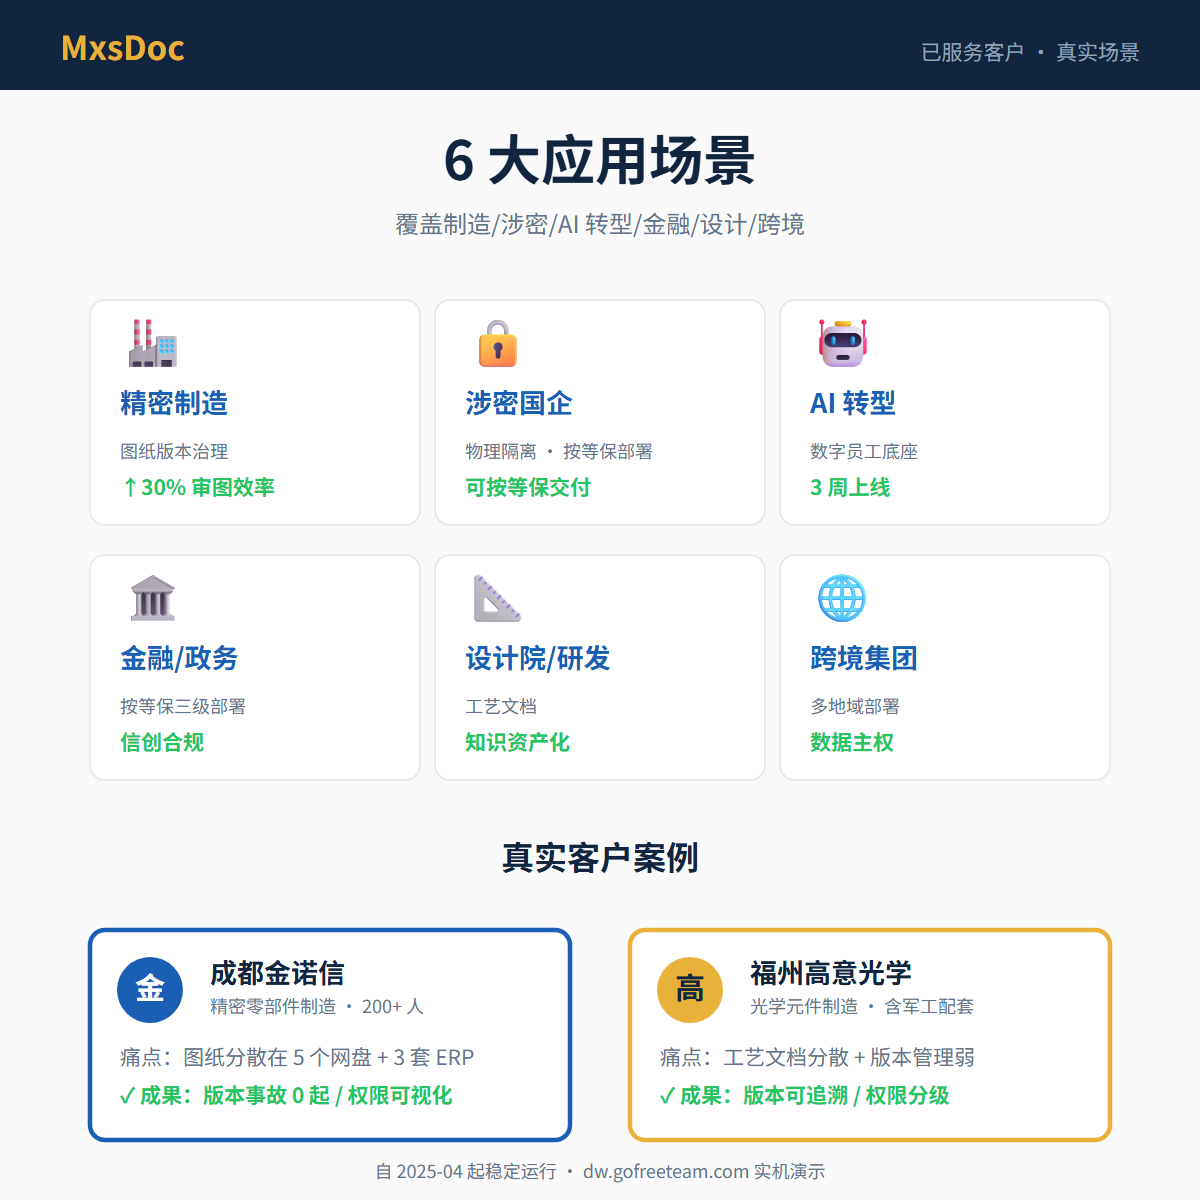
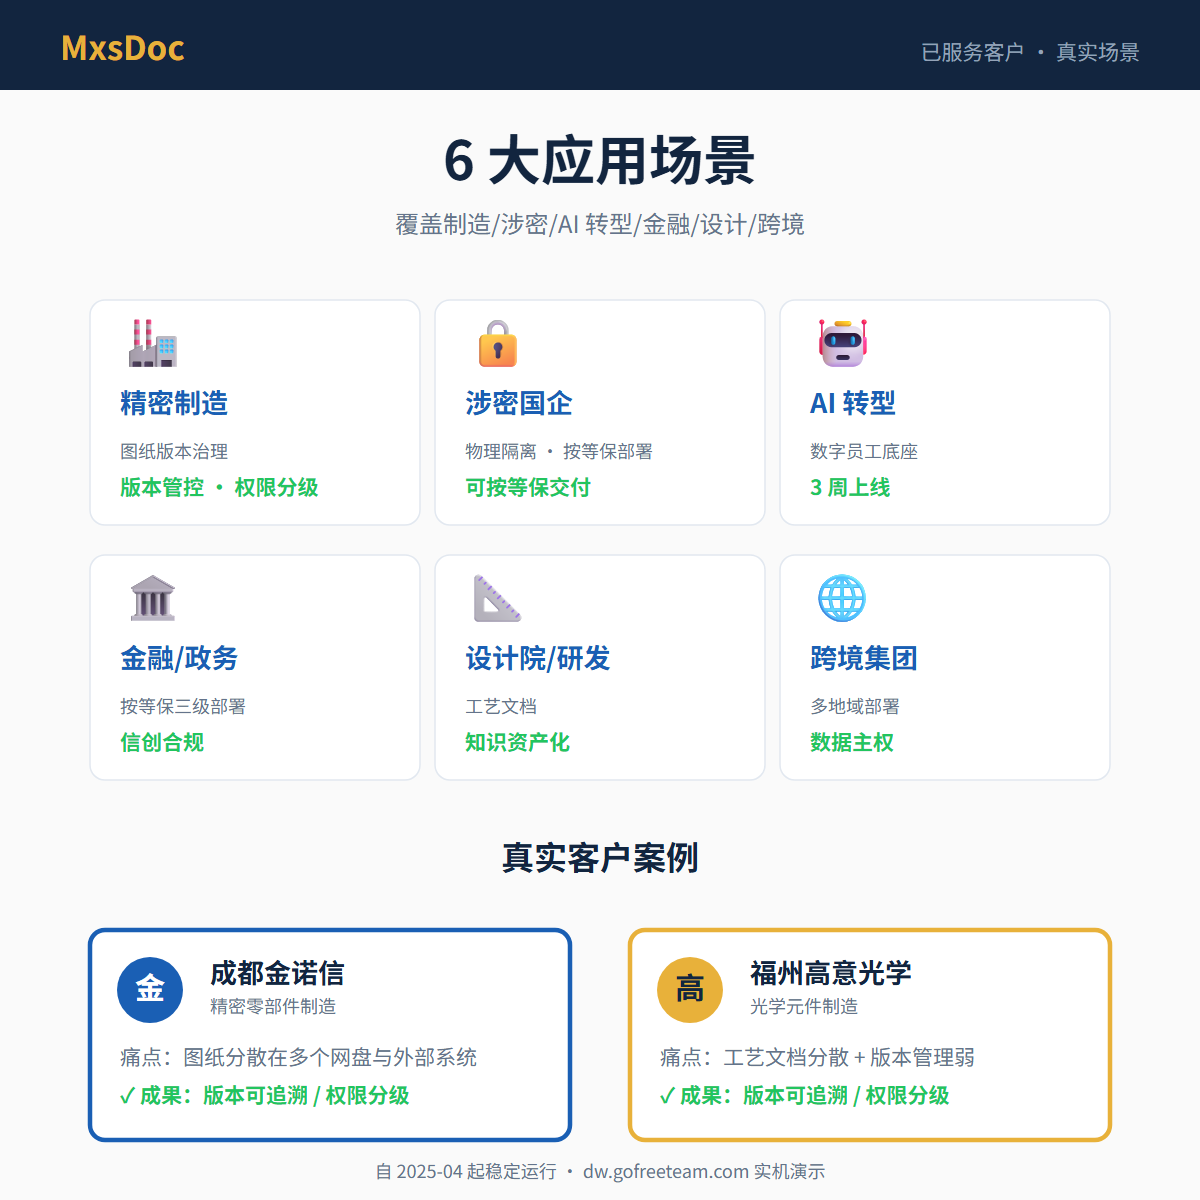
fix: 客户事实与数字口径整改——按盖章证明原文与管线红线清除无出处数字与引用
- 基准：两份盖章使用证明 PDF 的文字层原文 + 内容管线 guardrail（prompts/writer.md「不得新增客户名、不得新增案例数字」）
- appliance.html 客户卡片、customers/index.html、主图 SVG：客户归因数字与敏感表述（网盘/ERP 数量、版本事故数、涉密资质表述、GMP / ISO 合规类表述）改为盖章证明原文表述，或标注「客户反馈」「行业通用路径，非客户事实陈述」
- 苏州客户案例页：盖章原件「使用场景」「部署模式」两栏未勾选，相应条目从「原件勾选项」与逐字引用中剔除，meta / og / JSON-LD reviewBody 同步；成都案例页证据措辞与原件一致
- 四篇博客与首页：删除无法给出可核查标题与链接的第三方引用及配套百分比，改为我方工程判断；涉密/等保表述统一为「支撑材料」口径
- 主图 SVG 变更后重出 800/1200 PNG，全 10 张 PNG 与 SVG 源逐像素一致
- 配套产出：F:\MxsDoc-Content\business\等保三级与密评对标自查表.md（内部售前材料，27 项 class 级证据本轮复核）；同目录 prompts/writer.md 与 scripts/daily_content.py 增补「引用与数字红线」防止复发

Changed region(s): [[0.185, 0.8325, 0.4008, 0.925], [0.0925, 0.4008, 0.2775, 0.4317], [0.74, 0.8325, 0.8017, 0.8633]]

diff --git a/customers/suzhou-lantian-ranqi-redian.html b/customers/suzhou-lantian-ranqi-redian.html
@@ -4,7 +4,7 @@
   <meta charset="UTF-8">
   <meta name="viewport" content="width=device-width, initial-scale=1.0">
   <title>客户案例：苏州工业园区蓝天燃气热电 — MxsDoc 工程文档集中管理</title>
-  <meta name="description" content="苏州工业园区蓝天燃气热电（工业园区燃气热电企业）自 2026 年 3 月起使用 MxsDoc 文件管理系统：系统运行稳定，支持文件版本控制、集中权限管理、拖拽操作、电脑手机自适应访问，使用效果良好。盖章使用证明原件可点击查看。">
+  <meta name="description" content="苏州工业园区蓝天燃气热电（工业园区燃气热电企业）自 2026 年 3 月起使用 MxsDoc 文件管理系统：系统运行稳定，支持文件版本控制、集中权限管理、拖拽操作、电脑手机自适应访问，使用效果良好。盖章使用证明原件（2026-09-29）可点击查看。">
   <meta name="keywords" content="苏州工业园区蓝天燃气热电,MxsDoc 客户案例,工业园区文档管理,燃气热电企业文件管理">
   <link rel="canonical" href="https://agent.gofreeteam.com/customers/suzhou-lantian-ranqi-redian.html">
   <meta property="og:title" content="客户案例：苏州工业园区蓝天燃气热电 — MxsDoc 工程文档集中管理">
@@ -114,8 +114,8 @@
     <div class="meta-card">
       <div class="meta-grid">
         <div class="meta-item"><div class="k">企业类型</div><div class="v">工业园区燃气热电</div></div>
-        <div class="meta-item"><div class="k">使用场景</div><div class="v">企业内部文档集中存储管理（原件勾选项）</div></div>
-        <div class="meta-item"><div class="k">部署方式</div><div class="v">本地化部署</div></div>
+        <div class="meta-item"><div class="k">使用场景</div><div class="v">企业内部文档集中存储管理（据项目记录；盖章原件该栏未勾选）</div></div>
+        <div class="meta-item"><div class="k">部署方式</div><div class="v">本地化部署（据项目记录；盖章原件该栏未勾选）</div></div>
         <div class="meta-item"><div class="k">开始使用</div><div class="v">2026 年 3 月</div></div>
         <div class="meta-item"><div class="k">行业特征</div><div class="v">能源安全合规 · 跨部门协同 · 文档密集</div></div>
       </div>
@@ -124,9 +124,11 @@
     <h2 style="margin-top:3rem;">使用证明（可见证据）<small>逐条摘自客户盖章使用证明原件，下方可点击查看原件核对</small></h2>
     <div class="evidence">
       <div class="ev-card">
-        <h3>使用情况（原件勾选项）</h3>
+        <h3>使用情况（原件勾选栏未勾选）</h3>
         <ul>
           <li>盖章原件的「使用场景」栏与「部署模式」栏均未勾选，本页不就具体场景与部署模式作原件级事实陈述</li>
+          <li>使用起始时间：2026 年 3 月</li>
+          <li>证明单位：苏州工业园区蓝天燃气热电有限公司（盖章日期 2026-09-29）</li>
         </ul>
       </div>
       <div class="ev-card">
@@ -142,8 +144,8 @@
     </div>
 
     <div class="quote">
-      <p>"我单位自 2026 年 3 月开始使用 MxsDoc 文件管理系统，系统运行稳定，支持文件版本控制、集中权限管理、拖拽操作、电脑手机自适应访问，满足我单位内部文档存储、查阅、协同管理的业务需求，使用效果良好。"</p>
-      <small>—— 苏州工业园区蓝天燃气热电有限公司 · 客户使用证明（盖章原件，2026-09-29）</small>
+      <p>"我单位自 2026 年 3 月开始使用 MxsDoc 文件管理系统……系统运行稳定，支持文件版本控制、集中权限管理、拖拽操作、电脑手机自适应访问，满足我单位内部文档存储、查阅、协同管理的业务需求，使用效果良好。"</p>
+      <small>—— 苏州工业园区蓝天燃气热电有限公司 · 客户使用证明（盖章原件，2026-09-29；原件「使用场景」「部署模式」两栏未勾选，此处仅引述原件已填写的文字）</small>
     </div>
 
     <p style="margin-top: 1.6rem;">
@@ -204,7 +206,7 @@
       </div>
       <div class="ev-card">
         <h3>数据主权红线</h3>
-        <p style="font-size:.95rem;color:#475569;">关键基础设施数据必须留内网。→ 本地化部署 + 数据出厂区零通道，与关基设施保护「数据不出厂区」的要求方向一致。</p>
+        <p style="font-size:.95rem;color:#475569;">关键基础设施数据必须留内网。→ 本地化部署 + 数据出厂区零通道，与关基设施保护「数据不出厂区」的要求方向一致（合规结论以客户侧定级备案与测评为准）。</p>
       </div>
       <div class="ev-card">
         <h3>工艺变更四向关联弱</h3>

diff --git a/blog/enterprise-ai-knowledge-base-selection-guide.html b/blog/enterprise-ai-knowledge-base-selection-guide.html
@@ -45,7 +45,7 @@
       {
         "@type": "Question",
         "name": "MxsDoc 能本地化部署吗？",
-        "acceptedAnswer": { "@type": "Answer", "text": "本地化部署是 MxsDoc 的默认形态（数据不出内网），属硬性要求，不是可选项。涉密/等保/保密场景要求权限可审计、操作可留痕。" }
+        "acceptedAnswer": { "@type": "Answer", "text": "本地化部署是 MxsDoc 的默认形态（数据不出内网），属硬性要求，不是可选项。涉密/等保/保密场景要求权限可审计、操作可留痕，本产品提供文档级权限与操作审计日志作为支撑材料。" }
       },
       {
         "@type": "Question",
@@ -469,7 +469,7 @@
     </div>
     <div class="faq-item">
       <h4>MxsDoc 能本地化部署吗？</h4>
-      <p>本地化部署是 MxsDoc 的默认形态（数据不出内网），属硬性要求，不是可选项。涉密/等保/保密场景要求权限可审计、操作可留痕。</p>
+      <p>本地化部署是 MxsDoc 的默认形态（数据不出内网），属硬性要求，不是可选项。涉密/等保/保密场景要求权限可审计、操作可留痕，本产品提供文档级权限与操作审计日志作为支撑材料。</p>
     </div>
     <div class="faq-item">
       <h4>MxsDoc 适合什么样的企业？</h4>

diff --git a/customers/chengdu-jinnuoxin.html b/customers/chengdu-jinnuoxin.html
@@ -125,7 +125,7 @@
         <h3>使用情况（原件勾选项）</h3>
         <ul>
           <li>企业内部文档集中存储管理</li>
-          <li>版本管理</li>
+          <li>版本管控</li>
           <li>权限分级管理</li>
         </ul>
       </div>
@@ -142,7 +142,7 @@
     </div>
 
     <div class="quote">
-      <p>"我单位自 2025 年 4 月开始使用 MxsDoc 文件管理系统，使用场景：企业内部文档集中存储管理、版本管理、权限分级管理；部署模式：本地化部署。系统运行稳定，支持文件版本控制、集中权限管理、拖拽操作、电脑手机自适应访问，满足我单位内部文档存储、查阅、协同管理的业务需求，使用效果良好。"</p>
+      <p>"我单位自 2025 年 4 月开始使用 MxsDoc 文件管理系统，使用场景：企业内部文档集中存储管理、版本管控、权限分级管理；部署模式：本地化部署。系统运行稳定，支持文件版本控制、集中权限管理、拖拽操作、电脑手机自适应访问，满足我单位内部文档存储、查阅、协同管理的业务需求，使用效果良好。"</p>
       <small>—— 成都金诺信 · 客户使用证明（盖章原件）</small>
     </div>
 

diff --git a/blog/local-ai-digital-human-deployment.html b/blog/local-ai-digital-human-deployment.html
@@ -150,7 +150,7 @@
       <h2>二、三道坎：从 Demo 到生产的真实差距</h2>
 
       <h3>坎 1：知识从哪来？（RAG ≠ 扔 PDF 进向量库）</h3>
-      <p>在成都金诺信、福州高意光学的落地中反复验证：<strong>直接把 PDF/Word 切片向量化，召回率通常明显偏低</strong>。</p>
+      <p>工程实践中的常见结论：<strong>直接把 PDF/Word 切片向量化，召回率通常明显偏低，且无法定位到具体版本</strong>。</p>
 
       <p><strong>原因</strong>：</p>
       <ul>

diff --git a/appliance.html b/appliance.html
@@ -348,7 +348,7 @@
       <div class="grid-2x2">
         <div class="pain-card">
           <h3>❌ 数据出境风险</h3>
-          <p>公有云 API 把公司图纸/合同传到第三方服务器，涉密与合规敏感的客户因此直接排除公有云方案。</p>
+          <p>公有云 API 把公司图纸/合同传到第三方服务器——涉密与合规敏感的客户因此直接排除公有云方案。</p>
         </div>
         <div class="pain-card">
           <h3>❌ 知识库碎片化</h3>

diff --git a/README.md b/README.md
@@ -25,7 +25,7 @@
 | `customers/index.html` | 客户案例索引页：4 个深度案例汇总（附成都 / 苏州盖章使用证明 PDF 直链 + 文件大小实测值）+ 客户500+，下面是部分客户名录（按地域 + 核心字号 4-7 字缩写展示，保留业务类型词）+ 资质背书区块 |
 | `customers/chengdu-jinnuoxin.html` | 客户案例页：成都金诺信（制造企业，2025-04 起使用；证据区块逐条对应盖章 PDF 原件勾选项 + PDF 直链 + Review schema + BreadcrumbList） |
 | `customers/fuzhou-gaoyi-guangxue.html` | 客户案例页：福州高意光学（光学制造企业，2025-04 起使用；客户在实施与验收阶段提供的反馈，盖章原件待授权后公开 + Review schema + BreadcrumbList） |
-| `customers/suzhou-lantian-ranqi-redian.html` | 客户案例页：苏州工业园区蓝天燃气热电（能源热电行业，2026-03 起使用；证据区块逐条对应盖章 PDF 原件勾选项 + PDF 已公开可点击查看） |
+| `customers/suzhou-lantian-ranqi-redian.html` | 客户案例页：苏州工业园区蓝天燃气热电（能源热电行业，2026-03 起使用；证据区块只引述盖章 PDF 已填写文字——原件「使用场景」「部署模式」两栏未勾选，故不作原件级场景与部署模式陈述 + PDF 已公开可点击查看） |
 | `customers/beijing-dacheng-shengwu.html` | 客户案例页：北京达成生物科技（生物科技行业，使用证明归档中；仅提供行业通用落地路径说明，不作客户事实陈述） |
 | `docs/docsys-setup.html` | 安装教程页：MxsDoc / DocSys 2.02.87 Windows 下载 → 安装 → 超管初始化 → 角色权限 → 排查（自动化生成，2026-09-27） |
 | `docs/mxsdoc-marketing-video.html` | 营销视频页：约 5 分钟 1920×1080 真实 DocSys 录屏（双语硬字幕）+ 6 大功能快闪 + 30 天试用 CTA |
@@ -81,6 +81,7 @@
   - [x] demo.html HTTPS 降级（2026-11-02）：演示系统 `dw.gofreeteam.com` 仅支持 HTTP（实测 SSL 握手失败），主域启用 HTTPS 后内嵌会被浏览器按混合内容拦截；页面检测到 https 协议时自动把 iframe 换成可点击外链，并补 `<noscript>` 兜底
   - [x] Appliance 价格全站对齐 15/25/50 万 + 去除硬件配置明细（2026-11-02）：三档 SKU 报价由 10/20/45 万统一更正为 15/25/50 万（appliance.html 价格卡与 JSON-LD Offer price、SKU 选型指南全文、首页卡片与文案、llms.txt、README 全部同步，档间增量 10 万 / 25 万 不变）；公开页面不再写明整机配置（CPU/NPU 型号、内存、存储、机型），统一表述为「具体配置按交付合同约定」；涉密/信创文章中的国产算力厂商名泛化为「主流国产化算力平台」
   - [x] 等保测评表述合规整改（2026-11-04）：全站清除无测评报告支撑的等保达标断言（等保达标结论、密评达标结论、合规已通过结论三类），涉及 blog/local-ai-digital-human-deployment.html（2 处）、blog/mechanical-drawing-version-control.html（3 处，含 FAQ JSON-LD）、blog/enterprise-llm-private-vs-cloud-deployment.html（3 处，含文末证据来源注记）、assets/appliance/main-3-zero-exfiltration.svg、assets/appliance/main-5-customer-cases.svg（2 处）+ 对应 PNG 导出图（800/1200 双规格，Chrome 无头重新导出，与 main-2/main-4 的 800 版逐像素同管线）；统一改为「支持按等保三级要求部署」/「等保对标项逐条可查」；依据：等保是「定级—备案—建设整改—测评—监督检查」机制，对象为客户侧信息系统而非软件产品，本公司无测评报告或备案证明可对外出具，故不得宣称已达标
+  - [x] 客户事实与数字口径整改（2026-11-05）：以两份盖章使用证明 PDF 的文字层原文（pypdf 提取，见 F:\MxsDoc-Content\business\等保三级与密评对标自查表.md 同目录取证）与内容管线 guardrail（prompts/writer.md「不得新增客户名、不得新增案例数字」）为基准，清除全站无出处的客户归因数字与统计：①appliance.html 客户卡片（网盘/ERP 数量、版本事故数、涉密资质表述、GMP / ISO 合规类表述）改为盖章证明原文表述，或标注「客户反馈」「行业通用路径，非客户事实陈述」；②customers/index.html 与 assets/appliance/main-5-customer-cases.svg 的客户规模与成效表述同步（后者 SVG 变更后重出 800/1200 PNG，全 10 张 PNG 与 SVG 源逐像素一致）；③blog/enterprise-llm-private-vs-cloud-deployment.html、blog/local-ai-digital-human-deployment.html 的客户成效与召回率数字改为定性表述；④blog/enterprise-ai-knowledge-base-selection-guide.html、blog/ai-agent-knowledge-first.html、index.html、blog/mechanical-drawing-version-control.html 中无法给出可核查标题与链接的第三方引用与百分比全部移除或改为我方工程判断；⑤苏州客户案例页把盖章原件未勾选项从「原件勾选项」与逐字引用中剔除（原件「使用场景」「部署模式」两栏未勾选），meta / og / JSON-LD reviewBody 同步；⑥F:\MxsDoc-Content 的 prompts/writer.md 与 scripts/daily_content.py 增补「引用与数字红线」（禁不可溯源第三方引用、禁无出处统计、禁合规结论式表述）以防复发
 
 ## 部署与链接策略（双站点）
 
